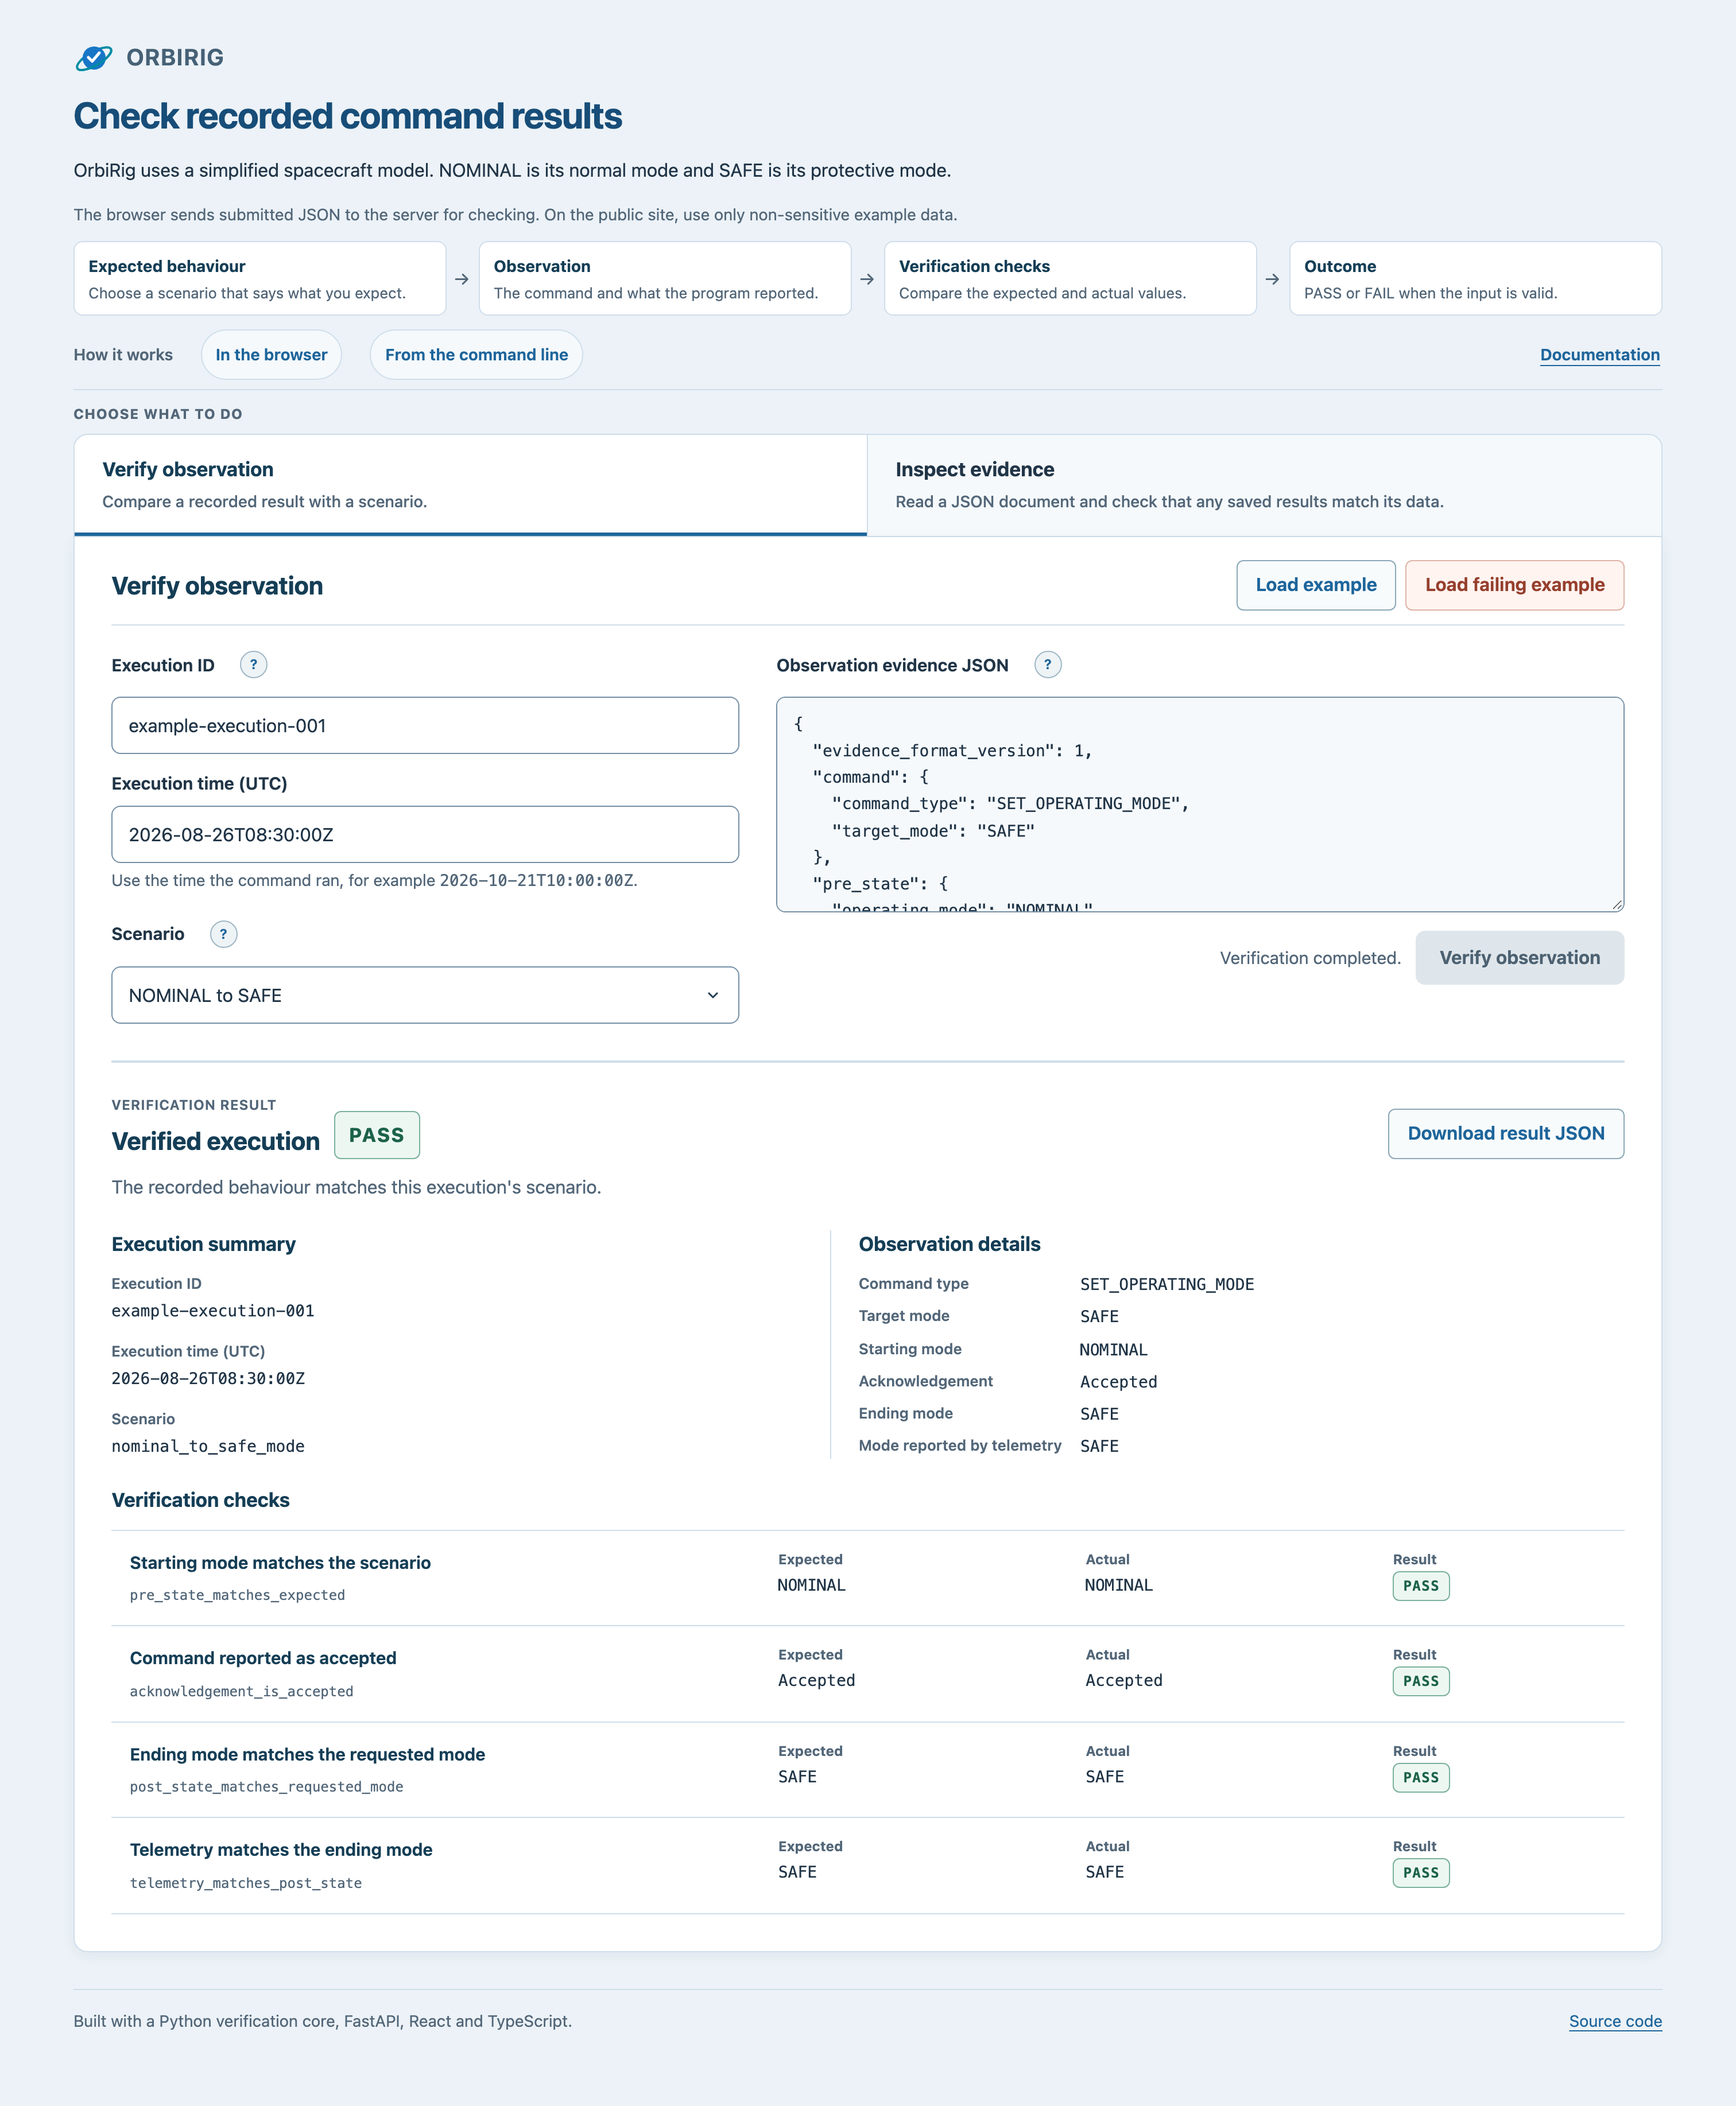
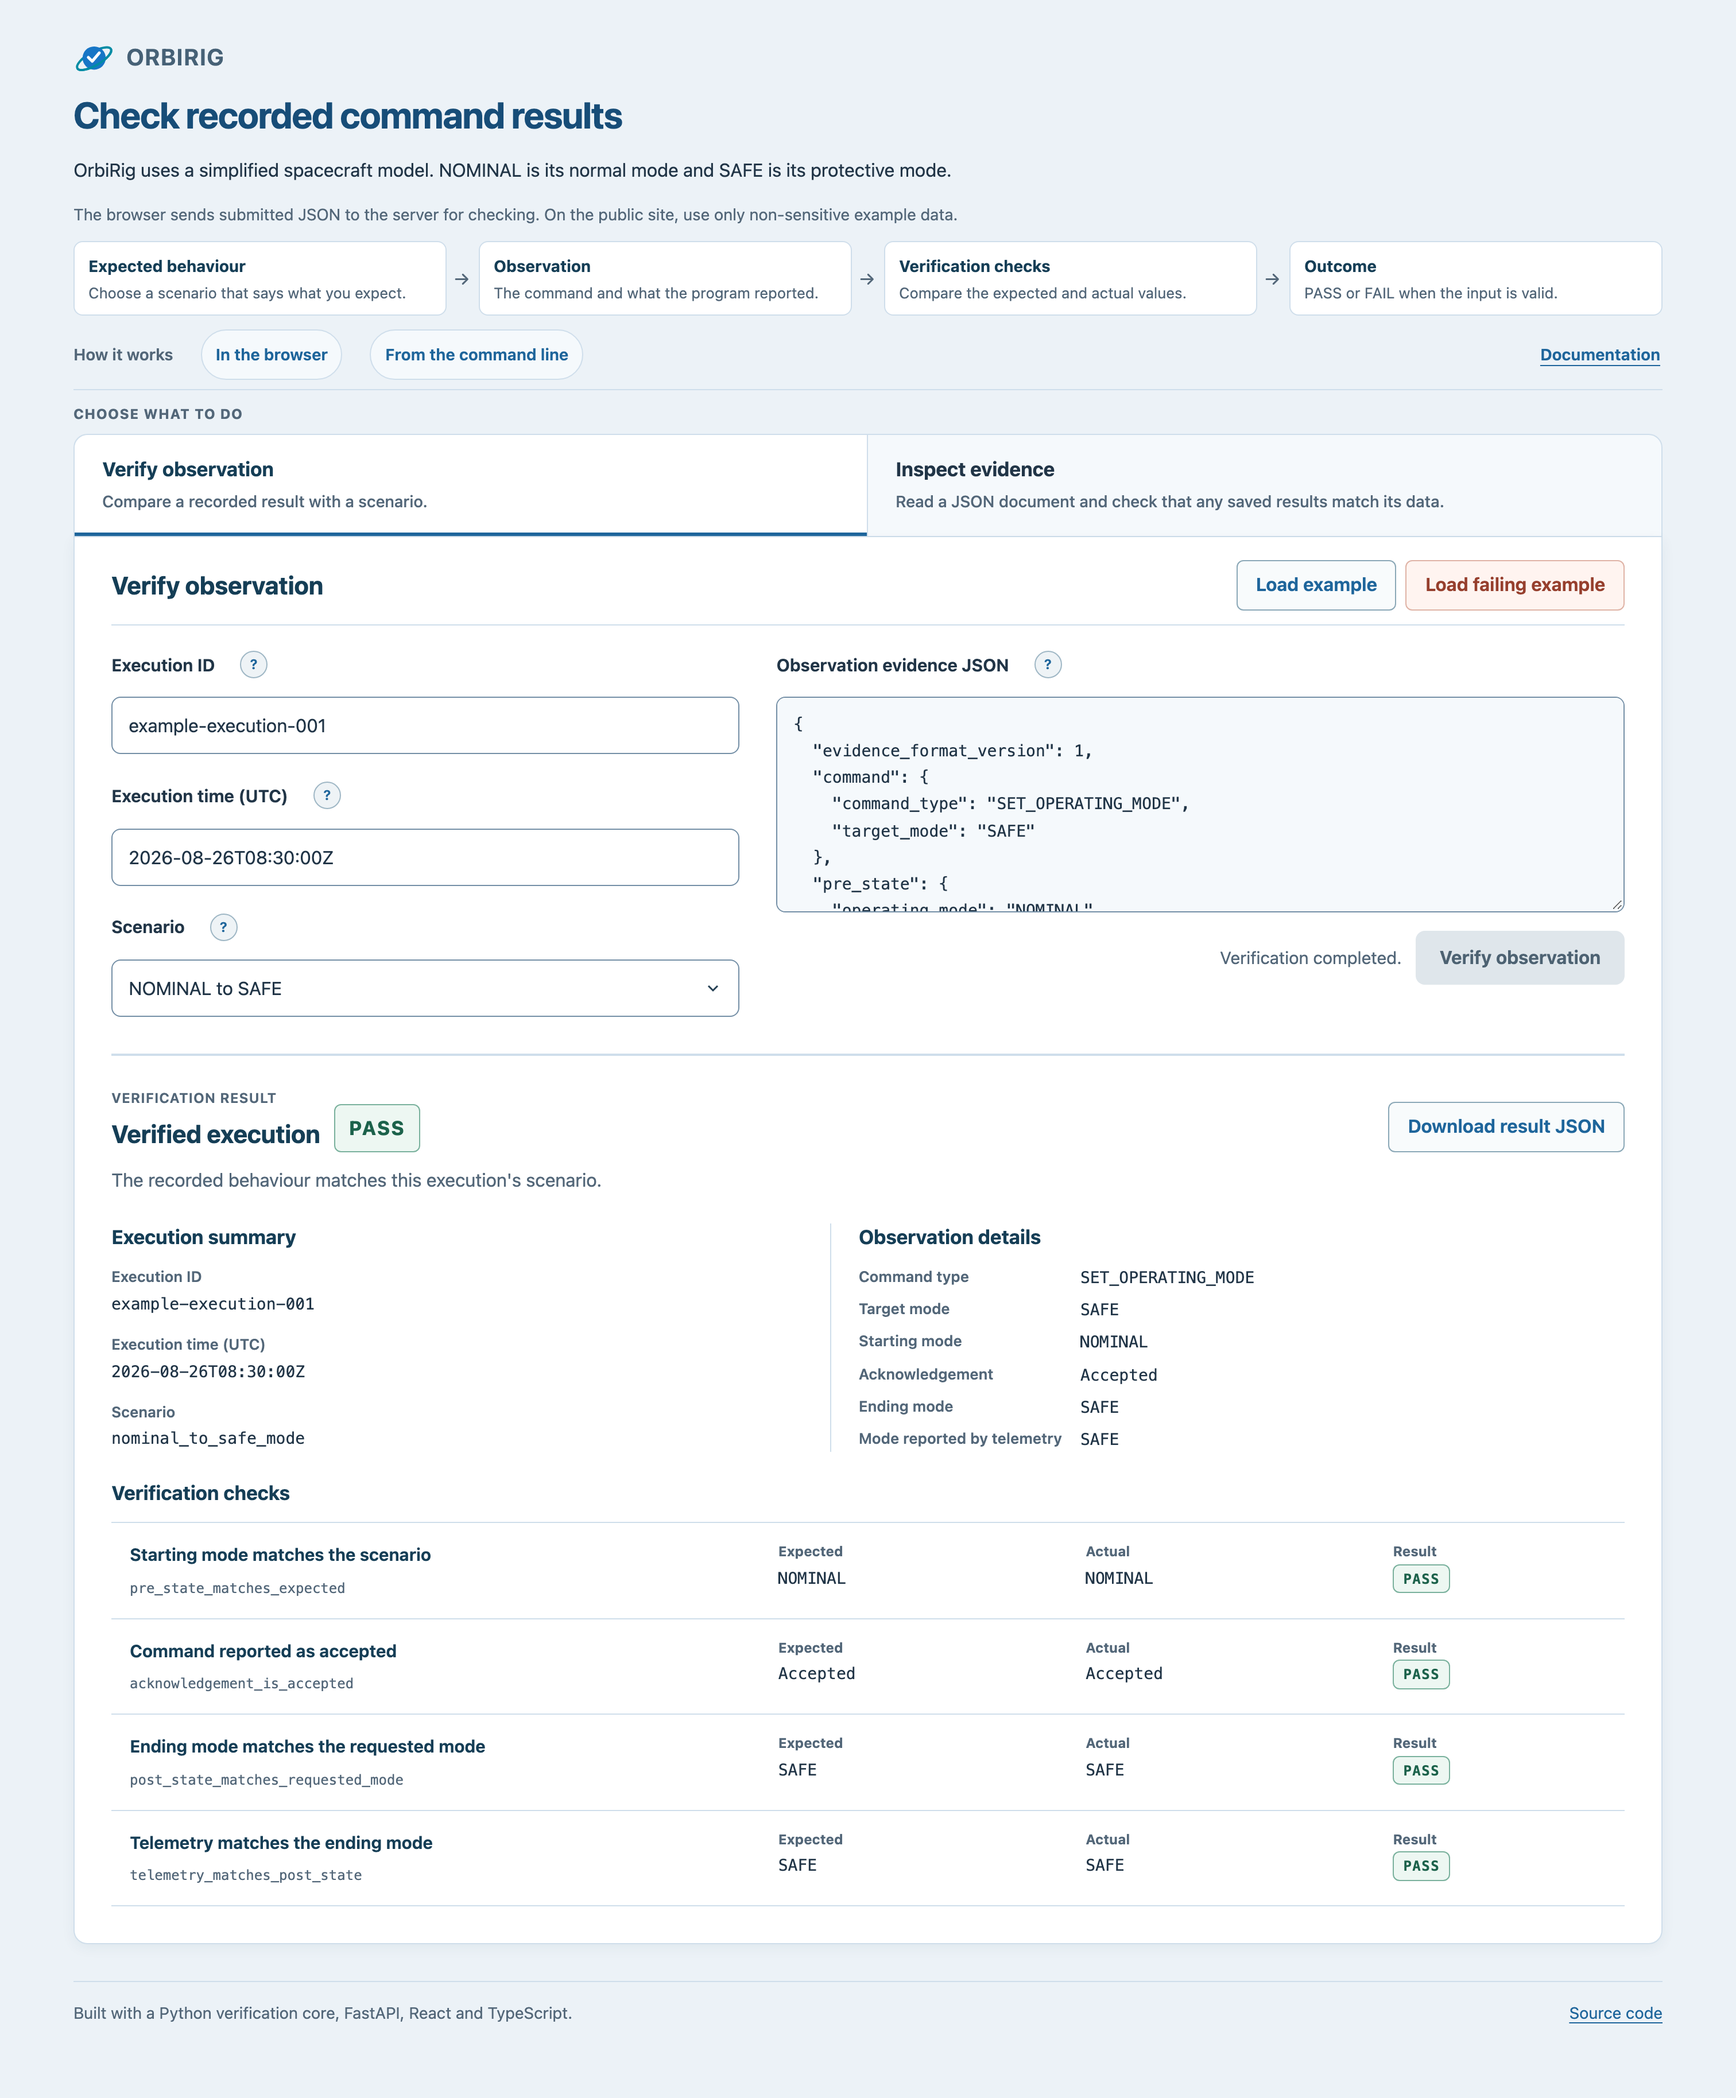
feat(web): show execution time guidance on demand
The execution time example took up space below its field, especially
when the verification form used a narrow column.

The help button beside Execution time (UTC) now shows the example on
demand. The field's accessible description includes the guidance and
any validation error. The web guide shows the updated form.

diff --git a/frontend/src/useVerificationFieldHelp.ts b/frontend/src/useVerificationFieldHelp.ts
@@ -1,9 +1,9 @@
 import { useEffect, useRef, useState } from "react";
 import type { RefObject } from "react";
 
-type HelpField = "executionId" | "scenario" | "observationEvidence" | "inspectionEvidence";
+type HelpField = "executionId" | "executedAt" | "scenario" | "observationEvidence" | "inspectionEvidence";
 type HelpPointer = Pick<PointerEvent, "clientX" | "clientY">;
-const allDismissed = { executionId: true, scenario: true, observationEvidence: true, inspectionEvidence: true };
+const allDismissed = { executionId: true, executedAt: true, scenario: true, observationEvidence: true, inspectionEvidence: true };
 
 function containsPoint(bounds: Pick<DOMRect, "left" | "right" | "top" | "bottom">, point: HelpPointer) {
   return point.clientX >= bounds.left && point.clientX <= bounds.right &&
@@ -20,12 +20,19 @@ export type FieldHelpControl = {
 
 export function useVerificationFieldHelp() {
   const executionIdRef = useRef<HTMLSpanElement>(null);
+  const executedAtRef = useRef<HTMLSpanElement>(null);
   const scenarioRef = useRef<HTMLSpanElement>(null);
   const observationEvidenceRef = useRef<HTMLSpanElement>(null);
   const inspectionEvidenceRef = useRef<HTMLSpanElement>(null);
   const [openField, setOpenField] = useState<HelpField | null>(null);
   const [dismissed, setDismissed] = useState(allDismissed);
-  const refs = { executionId: executionIdRef, scenario: scenarioRef, observationEvidence: observationEvidenceRef, inspectionEvidence: inspectionEvidenceRef };
+  const refs = {
+    executionId: executionIdRef,
+    executedAt: executedAtRef,
+    scenario: scenarioRef,
+    observationEvidence: observationEvidenceRef,
+    inspectionEvidence: inspectionEvidenceRef,
+  };
   const fields = Object.keys(refs) as HelpField[];
 
   useEffect(() => {
@@ -100,5 +107,12 @@ export function useVerificationFieldHelp() {
       },
     };
   }
-  return { executionId: control("executionId"), scenario: control("scenario"), observationEvidence: control("observationEvidence"), inspectionEvidence: control("inspectionEvidence"), closePinned: () => { setOpenField(null); setDismissed(allDismissed); } };
+  return {
+    executionId: control("executionId"),
+    executedAt: control("executedAt"),
+    scenario: control("scenario"),
+    observationEvidence: control("observationEvidence"),
+    inspectionEvidence: control("inspectionEvidence"),
+    closePinned: () => { setOpenField(null); setDismissed(allDismissed); },
+  };
 }

diff --git a/frontend/src/App.verification.test.tsx b/frontend/src/App.verification.test.tsx
@@ -13,6 +13,8 @@ import {
 
 setupAppTests();
 
+const timeHelp = "Enter the UTC time when the command ran, for example 2026-10-21T10:00:00Z.";
+
 describe("App verification", () => {
   it("pairs the product name with a decorative mark and keeps the page title explicit", () => {
     render(<App />);
@@ -57,9 +59,10 @@ describe("App verification", () => {
     expect(executionId).toHaveAttribute("placeholder", "e.g. run-001");
     const executedAt = screen.getByLabelText("Execution time (UTC)");
     expect(executedAt).toHaveAttribute("placeholder", "YYYY-MM-DDTHH:mm:ssZ");
-    expect(executedAt).toHaveAccessibleDescription(
-      "Use the time the command ran, for example 2026-10-21T10:00:00Z.",
-    );
+    expect(executedAt).toHaveAccessibleDescription(timeHelp);
+    const executedAtHelp = screen.getByRole("button", { name: "About Execution time (UTC)" });
+    expect(executedAtHelp).toHaveAccessibleDescription(timeHelp);
+    expect(executedAtHelp).toHaveAttribute("aria-controls", "execution-time-help-description");
     const observationEvidence = screen.getByLabelText("Observation evidence JSON");
     expect(observationEvidence).toHaveValue("");
     expect(observationEvidence).toHaveAttribute("placeholder", "Paste observation JSON here…");
@@ -117,7 +120,7 @@ describe("App verification", () => {
     );
     expect(executedAt).toHaveAttribute(
       "aria-describedby",
-      "verification-executed-at-hint verification-executed-at-error",
+      "execution-time-help-description verification-executed-at-error",
     );
     expect(scenario).toHaveAttribute(
       "aria-describedby",
@@ -148,10 +151,8 @@ describe("App verification", () => {
     fireEvent.change(executedAt, { target: { value: timestamp } });
 
     expect(executedAt).toHaveValue(timestamp);
-    expect(screen.getByText("2026-10-21T10:00:00Z")).toBeVisible();
-    expect(executedAt).toHaveAccessibleDescription(
-      "Use the time the command ran, for example 2026-10-21T10:00:00Z.",
-    );
+    expect(screen.queryByText("Execution time (UTC) is required.")).not.toBeInTheDocument();
+    expect(executedAt).toHaveAccessibleDescription(timeHelp);
   });
 
   it("submits raw observation evidence with explicit verification input", async () => {

diff --git a/frontend/e2e/layout.spec.ts b/frontend/e2e/layout.spec.ts
@@ -189,7 +189,7 @@ for (const viewport of [
     const actionBounds = (await action.boundingBox())!;
     expect(editorBounds.height).toBeGreaterThanOrEqual(176);
     expect(actionBounds.y).toBeGreaterThanOrEqual(editorBounds.y + editorBounds.height);
-    for (const name of ["About Execution ID", "About Scenario", "About Observation evidence JSON"]) {
+    for (const name of ["About Execution ID", "About Execution time (UTC)", "About Scenario", "About Observation evidence JSON"]) {
       await page.getByRole("button", { name, exact: true }).focus();
       const tooltip = page.getByRole("tooltip");
       await expect(tooltip).toBeVisible();
@@ -361,6 +361,7 @@ for (const viewport of [
     await page.getByLabel("Execution ID", { exact: true }).focus();
     const tab = browserName === "webkit" && process.platform === "darwin" ? "Alt+Tab" : "Tab";
     for (const control of [
+      page.getByRole("button", { name: "About Execution time (UTC)", exact: true }),
       page.getByLabel("Execution time (UTC)", { exact: true }),
       page.getByRole("button", { name: "About Scenario", exact: true }),
       page.getByLabel("Scenario", { exact: true }),
@@ -390,6 +391,7 @@ for (const { width, textScale } of [
 ]) {
   for (const [field, helpId] of [
     ["Execution ID", "execution-id-help-description"],
+    ["Execution time (UTC)", "execution-time-help-description"],
     ["Scenario", "scenario-help-description"],
     ["Observation evidence JSON", "verification-observation-hint"],
     ["Evidence JSON", "inspection-evidence-hint"],
@@ -542,6 +544,7 @@ test("reading enlarged help does not open another help button beneath its text",
 
 for (const [field, helpId] of [
   ["Execution ID", "execution-id-help-description"],
+  ["Execution time (UTC)", "execution-time-help-description"],
   ["Scenario", "scenario-help-description"],
   ["Observation evidence JSON", "verification-observation-hint"],
   ["Evidence JSON", "inspection-evidence-hint"],

diff --git a/frontend/src/VerificationPanel.tsx b/frontend/src/VerificationPanel.tsx
@@ -151,12 +151,17 @@ export function VerificationPanel({
           </div>
 
           <div className="form-field">
-            <label htmlFor="verification-executed-at">Execution time (UTC)</label>
+            <div className="field-label">
+              <label htmlFor="verification-executed-at">Execution time (UTC)</label>
+              <FieldHelp control={fieldHelp.executedAt} label="Execution time (UTC)" helpId="execution-time-help-description">
+                Enter the UTC time when the command ran, for example <code>2026-10-21T10:00:00Z</code>.
+              </FieldHelp>
+            </div>
             <input
               id="verification-executed-at"
               ref={executedAtInputRef}
               aria-describedby={describedBy(
-                "verification-executed-at-hint",
+                "execution-time-help-description",
                 verificationRequiredErrors.executedAt ? "verification-executed-at-error" : undefined,
               )}
               aria-invalid={
@@ -167,9 +172,6 @@ export function VerificationPanel({
               onChange={(event) => onInputChange("executedAt", event.target.value)}
               required
             />
-            <p id="verification-executed-at-hint" className="field-hint">
-              Use the time the command ran, for example <code>2026-10-21T10:00:00Z</code>.
-            </p>
             {verificationRequiredErrors.executedAt && (
               <p
                 className="field-error"

diff --git a/frontend/e2e/audit-regressions.spec.ts b/frontend/e2e/audit-regressions.spec.ts
@@ -69,6 +69,7 @@ for (const { width, textScale } of [
     await page.locator("html").evaluate((element, scale) => { element.style.fontSize = `${scale}%`; }, textScale);
     for (const [label, id] of [
       ["Execution ID", "execution-id-help-description"],
+      ["Execution time (UTC)", "execution-time-help-description"],
       ["Scenario", "scenario-help-description"],
       ["Observation evidence JSON", "verification-observation-hint"],
       ["Evidence JSON", "inspection-evidence-hint"],
@@ -124,7 +125,7 @@ for (const { width, textScale } of [
       await page.keyboard.press("Escape");
       await expect(tooltip).toBeHidden();
     }
-    for (const name of ["About Verify observation", "About Inspect evidence", "About Execution time (UTC)"]) {
+    for (const name of ["About Verify observation", "About Inspect evidence"]) {
       await expect(page.getByRole("button", { name, exact: true })).toHaveCount(0);
     }
     await page.mouse.move(0, 0);

diff --git a/frontend/src/App.audit.test.tsx b/frontend/src/App.audit.test.tsx
@@ -33,7 +33,7 @@ describe("pre-release regressions", () => {
       .toHaveAccessibleDescription("Compare a recorded result with a scenario.");
     expect(screen.getByRole("button", { name: "Show Inspect evidence" }))
       .toHaveAccessibleDescription("Read a JSON document and check that any saved results match its data.");
-    for (const name of ["About Verify observation", "About Inspect evidence", "About Execution time (UTC)"]) {
+    for (const name of ["About Verify observation", "About Inspect evidence"]) {
       expect(screen.queryByRole("button", { name })).not.toBeInTheDocument();
     }
     render(<VerifiedExecutionDetails record={{ ...verifiedExecution, outcome: "PASS" }} />);

diff --git a/frontend/src/App.help.test.tsx b/frontend/src/App.help.test.tsx
@@ -844,6 +844,7 @@ describe("App help", () => {
 
   it.each([
     ["About Execution ID", "Execution ID"],
+    ["About Execution time (UTC)", "Execution time (UTC)"],
     ["About Scenario", "Scenario"],
     ["About Observation evidence JSON", "Observation evidence JSON"],
     ["About Evidence JSON", "Evidence JSON"],

diff --git a/frontend/src/styles.css b/frontend/src/styles.css
@@ -791,15 +791,6 @@ fieldset {
   margin-top: 0;
 }
 
-.metadata-fields .field-hint {
-  margin-block-end: 0;
-}
-
-.metadata-fields .field-hint code {
-  display: inline-block;
-  max-inline-size: 100%;
-}
-
 .verification-evidence .evidence-input {
   margin-block-start: 1rem;
   padding-block-start: 0.75rem;
